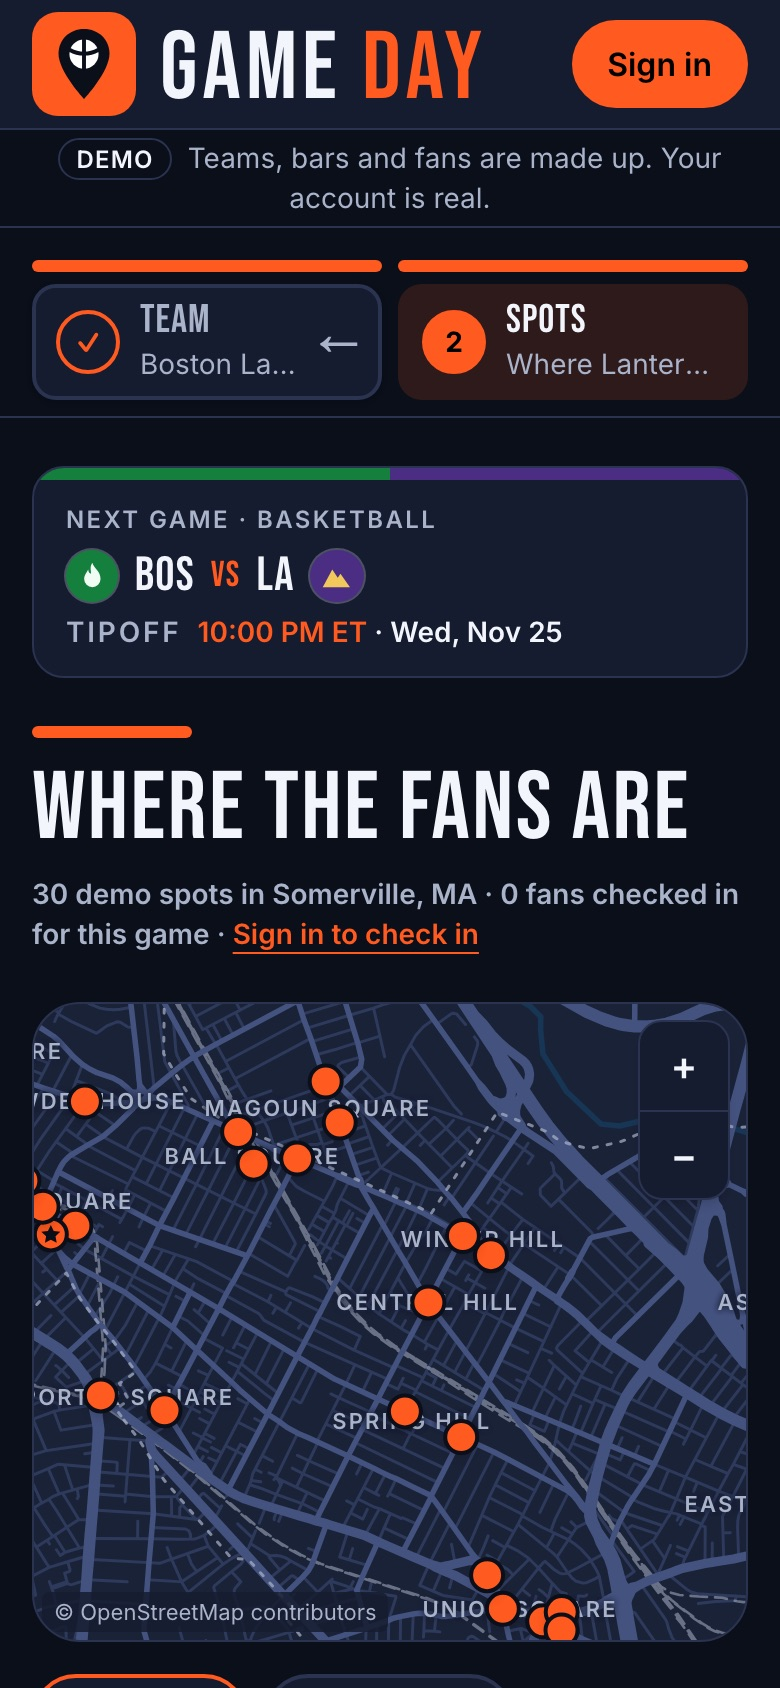
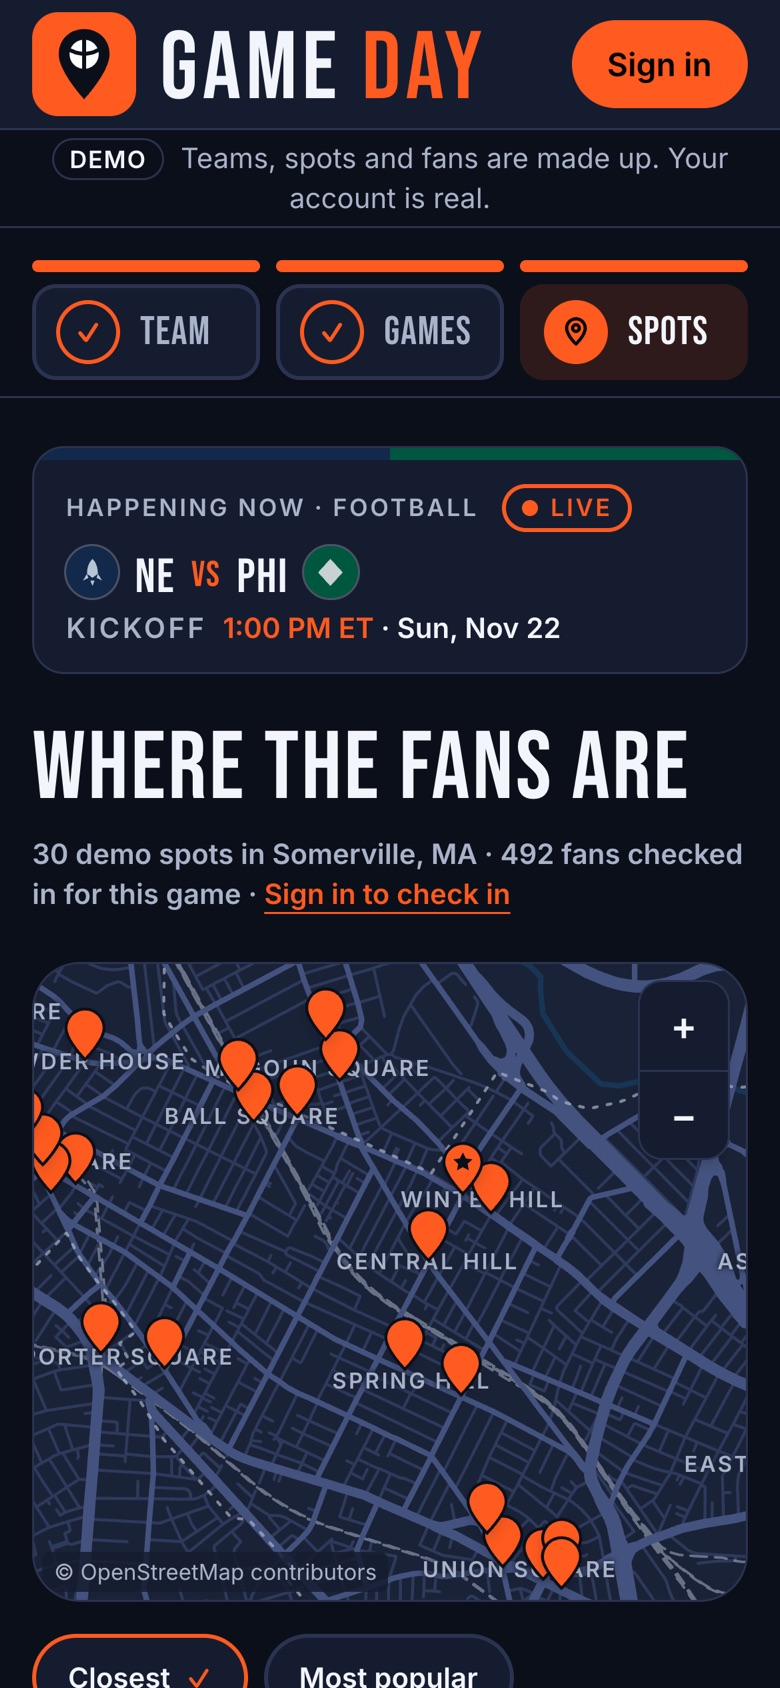
Case study follows the portfolio template
Seven chapters in template order: Problem & context (with a labeled
proto-persona and why it matters), Research & synthesis (why no formal
research, the insight that shaped the design, assumptions log),
Principles, Ideation & decisions, a new Final design chapter (flow in
order on desktop and phone, three edge and error states from the live
site, design system notes linking Playbook, accessibility), Evaluation,
and Outcome & reflection. TL;DR lede states problem and outcome; the
outcome card is honest that fan testing is next. Fresh screenshots of the
live site, including the Games step. Section timeline updated.

diff --git a/public/projects/game-day.html b/public/projects/game-day.html
@@ -26,7 +26,7 @@
   <div class="cs-head">
     <a class="crumb mono" href="/projects">← ~/projects</a>
     <h1>Game Day</h1>
-    <p class="lede">Helping sports fans find where fellow fans are watching tonight's game, so they can watch together instead of alone.</p>
+    <p class="lede">Fans couldn't tell where fellow fans were watching the game. I designed and shipped Game Day, a live web app that shows how many fans of your team are at each spot nearby.</p>
     <div class="btns">
       <a class="btn" href="https://gameday.davidlevine.dev/" target="_blank" rel="noopener">Open Game Day <span class="arr" aria-hidden="true">↗</span><span class="vh"> (opens in a new tab)</span></a>
     </div>
@@ -34,47 +34,50 @@
       <div><dt>// role</dt><dd>UX designer; I directed Claude Code, which wrote the code</dd></div>
       <div><dt>// timeline</dt><dd>November 2026; first working version in about two days</dd></div>
       <div><dt>// platform</dt><dd>Web app for desktop and phone</dd></div>
-      <div><dt>// built with</dt><dd>Claude Code, Next.js, Firestore, Google Cloud Run</dd></div>
+      <div><dt>// tools</dt><dd>Claude Code, Next.js, Firestore, Google Cloud Run</dd></div>
     </dl>
     <div class="cards glance">
       <div class="card"><span class="mono">// the problem</span><p>Fans can't easily tell where fellow fans are watching the game.</p></div>
-      <div class="card"><span class="mono">// my approach</span><p>No formal research: I built first, logged my assumptions, and evaluated with UX methods.</p></div>
-      <div class="card"><span class="mono">// the result</span><p>A live web app, 11 usability fixes, and 4 navigation concepts compared side by side.</p></div>
+      <div class="card"><span class="mono">// what I did</span><p>Built first, logged every assumption, compared 4 navigation concepts, and ran a heuristic review.</p></div>
+      <div class="card"><span class="mono">// outcome so far</span><p>A live app anyone can use, with 11 usability problems fixed. Testing with fans is next.</p></div>
     </div>
   </div>
 
   <figure class="cs-hero">
-    <img src="/images/game-day/spots.jpg" width="1280" height="800" alt="Game Day's Spots step: a step bar showing Team done and Spots current, the next game Boston vs LA with its tipoff time, and Where the fans are with a list of bars beside a map of Somerville">
+    <img src="/images/game-day/spots.jpg" width="1280" height="800" alt="Game Day's Spots step: a Team, Games, Spots step bar, the live New England vs Philadelphia game, and Where the fans are with a list of spots and their fan counts beside a map of Somerville">
   </figure>
 
   <div class="cs-body">
   <nav class="cs-nav" aria-label="Case study sections">
     <ol>
       <li><a href="#problem"><span class="n">01</span><span class="t">Problem</span></a></li>
-      <li><a href="#approach"><span class="n">02</span><span class="t">Approach</span></a></li>
-      <li><a href="#assumptions"><span class="n">03</span><span class="t">Assumptions</span></a></li>
-      <li><a href="#principles"><span class="n">04</span><span class="t">Principles</span></a></li>
-      <li><a href="#evaluation"><span class="n">05</span><span class="t">Evaluation</span></a></li>
-      <li><a href="#iteration"><span class="n">06</span><span class="t">Iteration</span></a></li>
-      <li><a href="#accessibility"><span class="n">07</span><span class="t">Accessibility</span></a></li>
-      <li><a href="#outcome"><span class="n">08</span><span class="t">Outcome</span></a></li>
-      <li><a href="#next"><span class="n">09</span><span class="t">What's next</span></a></li>
+      <li><a href="#research"><span class="n">02</span><span class="t">Research</span></a></li>
+      <li><a href="#principles"><span class="n">03</span><span class="t">Principles</span></a></li>
+      <li><a href="#iteration"><span class="n">04</span><span class="t">Ideation</span></a></li>
+      <li><a href="#design"><span class="n">05</span><span class="t">Final design</span></a></li>
+      <li><a href="#evaluation"><span class="n">06</span><span class="t">Evaluation</span></a></li>
+      <li><a href="#outcome"><span class="n">07</span><span class="t">Outcome</span></a></li>
     </ol>
   </nav>
   <div class="cs-content">
 
   <section class="chapter" id="problem" aria-labelledby="problem-h">
-    <span class="mono">01 · the problem</span>
+    <span class="mono">01 · problem &amp; context</span>
     <h2 id="problem-h">Finding a crowd to watch the game with is guesswork.</h2>
     <p>Transplants, fans of out-of-town teams, and anyone whose friends don't follow their sport have no easy way to know where fellow fans gather. Bars advertise TVs, not who'll be there.</p>
-    <p><strong>The solution:</strong> pick your team, then see how many fans are checked in at each spot nearby, on a list and a map.</p>
+    <div class="cards glance">
+      <div class="card"><span class="mono">// who it's for</span><p>A fan who moved to Somerville and still follows the team from back home. They know which bars have TVs, not which one their team's fans fill on game day.</p></div>
+      <div class="card"><span class="mono">// why it matters to fans</span><p>Watching with people who cheer for the same team is the point of going out for the game.</p></div>
+      <div class="card"><span class="mono">// why it matters to spots</span><p>A spot that becomes a team's home base can count on a crowd every game night.</p></div>
+    </div>
+    <p class="note mono">A proto-persona: assumed, not yet checked with real fans.</p>
+    <p><strong>The solution:</strong> pick your team and game, then see how many fans are checked in at each spot nearby, on a list and a map.</p>
   </section>
 
-  <section class="chapter" id="approach" aria-labelledby="approach-h">
-    <span class="mono">02 · my approach</span>
-    <h2 id="approach-h">Build first, then test like a designer.</h2>
-    <p class="big-quote">I skipped formal research and went straight into building with Claude Code.</p>
-    <p>To keep that honest, I logged every assumption as a question to test, and reviewed the working prototype with standard UX methods.</p>
+  <section class="chapter" id="research" aria-labelledby="research-h">
+    <span class="mono">02 · research &amp; synthesis</span>
+    <h2 id="research-h">No interviews yet. Here's what I used instead.</h2>
+    <p><strong>Why no formal research:</strong> Game Day started as a prototype I wanted working in about two days, with no time to recruit and interview fans. So I went straight into building with Claude Code and kept it honest in other ways.</p>
     <ol class="steps" aria-label="Process">
       <li><b>Assume</b><span>Log each assumption and the decision it drives.</span></li>
       <li><b>Build</b><span>A working prototype, one feature at a time.</span></li>
@@ -83,11 +86,10 @@
       <li><b>Compare</b><span>Competing concepts, built for real.</span></li>
       <li><b>Refine</b><span>Small changes, each with a reason.</span></li>
     </ol>
-  </section>
-
-  <section class="chapter" id="assumptions" aria-labelledby="assumptions-h">
-    <span class="mono">03 · assumptions log</span>
-    <h2 id="assumptions-h">Research I owe, written down as I went.</h2>
+    <h3>The insight that shaped the design</h3>
+    <p class="big-quote">A tester found the single long page tiring: teams at the top, spots far below.</p>
+    <p>Changing your mind meant scrolling up and down. That one comment led to the step-by-step navigation in <a href="#iteration">Ideation</a>.</p>
+    <h3>Assumptions log: research I owe</h3>
     <p>Every decision rests on an assumption, each ready to check in the first usability test.</p>
     <div class="table-wrap">
       <table>
@@ -103,7 +105,7 @@
   </section>
 
   <section class="chapter" id="principles" aria-labelledby="principles-h">
-    <span class="mono">04 · design principles</span>
+    <span class="mono">03 · design principles</span>
     <h2 id="principles-h">Five principles settled most arguments.</h2>
     <div class="cards">
       <div class="card"><b>Value before sign-up</b><p>Browse freely. Sign up only to check in or review.</p></div>
@@ -114,33 +116,10 @@
     </div>
   </section>
 
-  <section class="chapter" id="evaluation" aria-labelledby="evaluation-h">
-    <span class="mono">05 · evaluation</span>
-    <h2 id="evaluation-h">No users yet, so I ran a heuristic review.</h2>
-    <p>I walked every flow as a new visitor, a returning fan and a keyboard-only user, against Nielsen's 10 usability heuristics.</p>
-    <div class="stats">
-      <div class="stat"><b>11</b><span>usability problems found and fixed</span></div>
-      <div class="stat"><b>3</b><span>user roles walked through every flow</span></div>
-      <div class="stat"><b>320px</b><span>narrowest screen every layout holds at</span></div>
-    </div>
-    <div class="table-wrap">
-      <table>
-        <thead><tr><th scope="col">heuristic</th><th scope="col">problem</th><th scope="col">fix</th></tr></thead>
-        <tbody>
-          <tr><td>Visibility of system status</td><td>A failed check-in was silent for sighted users</td><td>A visible message with Sign in or Dismiss</td></tr>
-          <tr><td>Help users recover from errors</td><td>A failed load said "Loading…" forever</td><td>"Couldn't load" with a Try again button</td></tr>
-          <tr><td>Recognition rather than recall</td><td>Checking in meant going back to find the spot in the list</td><td>A check-in button on every spot's page</td></tr>
-          <tr><td>Error prevention</td><td>Leaving the page lost a half-written review</td><td>Drafts are kept until posted</td></tr>
-          <tr><td>User control and freedom</td><td>No way to delete an account</td><td>"Delete your account", listing exactly what goes</td></tr>
-        </tbody>
-      </table>
-    </div>
-  </section>
-
   <section class="chapter" id="iteration" aria-labelledby="iteration-h">
-    <span class="mono">06 · iteration</span>
+    <span class="mono">04 · ideation &amp; decisions</span>
     <h2 id="iteration-h">Four navigation concepts, built for real.</h2>
-    <p><strong>Why:</strong> a tester found the single long page tiring. Teams were at the top and spots far below, so changing your mind meant scrolling up and down.</p>
+    <p><strong>Why:</strong> the tester who found the long page tiring (see <a href="#research">Research</a>).</p>
     <p><strong>Every concept had to:</strong> show which step you're on, make going back easy, and require a team before showing spots.</p>
     <figure>
       <img src="/images/game-day/concepts.jpg" width="1280" height="900" loading="lazy" alt="Game Day's design concepts page: a card for each concept with a sketch of its layout, its strengths and what to watch out for">
@@ -181,7 +160,7 @@
         <p>A's progress line inside B's sticky bar, plus a button that fades in at the bottom once a team is picked.</p>
         <p class="verdict">became the live site after four rounds of refinement</p>
       </div>
-      <figure><img src="/images/game-day/team.jpg" width="1280" height="800" loading="lazy" alt="The live Team step: the step bar with Team done, and team search with My teams and sport filters"></figure>
+      <figure><img src="/images/game-day/team.jpg" width="1280" height="800" loading="lazy" alt="The live Team step: a Team, Games, Spots step bar, team search with My teams and sport filters, and a See Foghorns games button"></figure>
     </article>
 
     <h3>Small changes, each with a reason</h3>
@@ -256,9 +235,41 @@
     </article>
   </section>
 
-  <section class="chapter" id="accessibility" aria-labelledby="accessibility-h">
-    <span class="mono">07 · accessibility</span>
-    <h2 id="accessibility-h">WCAG 2.1 AA from the first draft.</h2>
+  <section class="chapter" id="design" aria-labelledby="design-h">
+    <span class="mono">05 · final design</span>
+    <h2 id="design-h">From picking a team to checking in.</h2>
+    <p>Three steps, then a spot's page. The step bar stays on top, so going back is always one tap.</p>
+    <div class="shots two">
+      <figure><img src="/images/game-day/team.jpg" width="1280" height="800" loading="lazy" alt="Team step: search by team or city, My teams and sport filters, team cards with stars, and a See Foghorns games button"><figcaption>1 · Team: search, filter, or pick a saved team.</figcaption></figure>
+      <figure><img src="/images/game-day/games.jpg" width="1280" height="800" loading="lazy" alt="Games step: Pick a game, with the Foghorns' live game and next three games as cards showing kickoff times"><figcaption>2 · Games: the live game and what's coming up.</figcaption></figure>
+      <figure><img src="/images/game-day/spots.jpg" width="1280" height="800" loading="lazy" alt="Spots step: a one-line game card, then spots with their fan counts beside a map of pins"><figcaption>3 · Spots: where the fans are, on a list and a map.</figcaption></figure>
+      <figure><img src="/images/game-day/spot-page.jpg" width="1280" height="800" loading="lazy" alt="The Tap Room's page: rating, hours, Popular with, and a game box with 22 Foghorns fans here, Sign in to check in and Switch team"><figcaption>A spot's page: check in, or switch team.</figcaption></figure>
+    </div>
+    <div class="phones four">
+      <img src="/images/game-day/m-team.jpg" width="780" height="1688" loading="lazy" alt="The Team step on a phone">
+      <img src="/images/game-day/m-games.jpg" width="780" height="1688" loading="lazy" alt="The Games step on a phone, with the live game picked and a See where Foghorns fans are button">
+      <img src="/images/game-day/m-spots.jpg" width="780" height="1688" loading="lazy" alt="The Spots step on a phone, with the game card and map">
+      <img src="/images/game-day/m-spot-page.jpg" width="780" height="1688" loading="lazy" alt="A spot's page on a phone, with Sign in to check in and Switch team side by side">
+    </div>
+
+    <h3>Edge and error states</h3>
+    <p>Each one says what happened and what to do next.</p>
+    <div class="shots">
+      <figure><img src="/images/game-day/state-load-error.jpg" width="1800" height="700" loading="lazy" alt="Spots step with a warning: We couldn't load the fan counts. The numbers below may be out of date, with a Try again button"><figcaption>Counts fail to load: the page still works, with a warning and Try again.</figcaption></figure>
+      <figure><img src="/images/game-day/state-no-teams.jpg" width="1800" height="700" loading="lazy" alt="Team search for Honolulu showing: No teams match Honolulu"><figcaption>No search results: it repeats what you typed.</figcaption></figure>
+      <figure><img src="/images/game-day/state-pick-game.jpg" width="1800" height="700" loading="lazy" alt="Going to Spots without a game: a notice, Pick a game first. Then you can see where fans are watching it, above the Games step"><figcaption>Skipping a step: Spots sends you back to pick a game first.</figcaption></figure>
+    </div>
+
+    <h3>Design system</h3>
+    <p>One orange brand color runs through a contrast engine that works out a version for text, edges and fills that passes WCAG, in dark and light mode. Two shared button styles are used 58 times across the app.</p>
+    <p>Afterward, Claude audited every screen and pulled the styles into <a href="/projects/playbook">Playbook</a>, the design system the next project starts from:</p>
+    <div class="stats">
+      <div class="stat"><b>12 → 7</b><span>text sizes became 7 named styles</span></div>
+      <div class="stat"><b>42 → 8</b><span>padding values became an 8-step spacing scale</span></div>
+      <div class="stat"><b>7 → 5</b><span>corner radii became 5 named ones</span></div>
+    </div>
+
+    <h3 id="accessibility">Accessibility: WCAG 2.1 AA from the first draft</h3>
     <div class="cards">
       <div class="card"><b>Contrast tested in code</b><p>4.5:1 for text and 3:1 for icons, in dark and light mode.</p></div>
       <div class="card"><b>Never color alone</b><p>Status and errors always have an icon and words.</p></div>
@@ -269,30 +280,40 @@
     </div>
   </section>
 
-  <section class="chapter" id="outcome" aria-labelledby="outcome-h">
-    <span class="mono">08 · outcome</span>
-    <h2 id="outcome-h">A working app, live on Google Cloud.</h2>
-    <p>Real accounts, check-ins and reviews in a real neighborhood (Somerville, MA), with 600 simulated fans so it never feels empty.</p>
+  <section class="chapter" id="evaluation" aria-labelledby="evaluation-h">
+    <span class="mono">06 · evaluation</span>
+    <h2 id="evaluation-h">No users yet, so I ran a heuristic review.</h2>
+    <p>I walked every flow as a new visitor, a returning fan and a keyboard-only user, against Nielsen's 10 usability heuristics.</p>
     <div class="stats">
-      <div class="stat"><b>4</b><span>navigation concepts built and compared</span></div>
-      <div class="stat"><b>11</b><span>usability fixes</span></div>
+      <div class="stat"><b>11</b><span>usability problems found and fixed</span></div>
+      <div class="stat"><b>3</b><span>user roles walked through every flow</span></div>
+      <div class="stat"><b>320px</b><span>narrowest screen every layout holds at</span></div>
     </div>
-    <div class="shots two">
-      <figure><img src="/images/game-day/home.jpg" width="1280" height="800" loading="lazy" alt="Game Day's Home: Welcome to Game Day, one sentence on what you can do, and a large Find your crew button"><figcaption>Home: one sentence, one action.</figcaption></figure>
-      <figure><img src="/images/game-day/spots.jpg" width="1280" height="800" loading="lazy" alt="The Spots step with the game card, list of spots and map"><figcaption>Spots: where the fans are, on a list and a map.</figcaption></figure>
-    </div>
-    <div class="phones">
-      <img src="/images/game-day/m-home.jpg" width="780" height="1688" loading="lazy" alt="Home on a phone">
-      <img src="/images/game-day/m-team.jpg" width="780" height="1688" loading="lazy" alt="The Team step on a phone">
-      <img src="/images/game-day/m-spots.jpg" width="780" height="1688" loading="lazy" alt="The Spots step on a phone, with the game card and map">
+    <div class="table-wrap">
+      <table>
+        <thead><tr><th scope="col">heuristic</th><th scope="col">problem</th><th scope="col">fix</th></tr></thead>
+        <tbody>
+          <tr><td>Visibility of system status</td><td>A failed check-in was silent for sighted users</td><td>A visible message with Sign in or Dismiss</td></tr>
+          <tr><td>Help users recover from errors</td><td>A failed load said "Loading…" forever</td><td>"Couldn't load" with a Try again button</td></tr>
+          <tr><td>Recognition rather than recall</td><td>Checking in meant going back to find the spot in the list</td><td>A check-in button on every spot's page</td></tr>
+          <tr><td>Error prevention</td><td>Leaving the page lost a half-written review</td><td>Drafts are kept until posted</td></tr>
+          <tr><td>User control and freedom</td><td>No way to delete an account</td><td>"Delete your account", listing exactly what goes</td></tr>
+        </tbody>
+      </table>
     </div>
   </section>
 
-  <section class="chapter" id="next" aria-labelledby="next-h">
-    <span class="mono">09 · what's next</span>
-    <h2 id="next-h">Next: test the assumptions with real fans.</h2>
+  <section class="chapter" id="outcome" aria-labelledby="outcome-h">
+    <span class="mono">07 · outcome &amp; reflection</span>
+    <h2 id="outcome-h">Live and reviewed. Not yet tested with fans.</h2>
+    <p>Game Day runs on Google Cloud with real accounts, check-ins and reviews in a real neighborhood (Somerville, MA), and 600 simulated fans so it never feels empty. What it doesn't have yet is evidence from real fans.</p>
+    <div class="stats">
+      <div class="stat"><b>4</b><span>navigation concepts built and compared</span></div>
+      <div class="stat"><b>11</b><span>usability problems fixed</span></div>
+    </div>
+    <h3>What's next</h3>
     <ul>
-      <li><strong>Usability test</strong> with 3 to 5 fans, including a screen reader user.</li>
+      <li><strong>Usability test</strong> with 3 to 5 fans, including a screen reader user, checking the assumptions log.</li>
       <li><strong>Passkeys</strong> on Windows and Android, and with VoiceOver.</li>
       <li><strong>New features:</strong> game-night notifications, and crowd forecasts for bar owners.</li>
     </ul>

diff --git a/public/styles.css b/public/styles.css
@@ -152,6 +152,9 @@ figcaption { font: 400 .8rem/1.5 var(--mono); color: var(--soft); margin-top: 10
 .shots figure { margin: 0; }
 .phones { display: grid; gap: 14px; grid-template-columns: repeat(3, 1fr); max-width: 760px; margin-top: 28px; }
 .phones img { border-radius: 18px; }
+.phones.four { grid-template-columns: repeat(2, 1fr); max-width: 520px; }
+@media (min-width: 720px) { .phones.four { grid-template-columns: repeat(4, 1fr); max-width: 980px; } }
+.chapter .note { font-size: .78rem; margin-top: 10px; }
 .concept { display: grid; gap: 20px; padding: 22px; margin-top: 18px; background: var(--panel); border: 1px solid var(--line); border-radius: 20px; }
 @media (min-width: 840px) { .concept { grid-template-columns: 1fr 1.2fr; align-items: start; } }
 .concept h3 { margin-top: 0; }
@@ -307,34 +310,28 @@ footer a:hover::after, .crumb:hover::after, footer a:focus-visible::after { tran
 @media (min-width: 720px) and (max-width: 1099px) { .cs-nav { margin-inline: -36px; padding-inline: 36px; } }
 
 @supports (animation-timeline: view()) {
-  .cs-body { timeline-scope: --s-problem, --s-approach, --s-assumptions, --s-principles, --s-evaluation, --s-iteration, --s-accessibility, --s-outcome, --s-next; }
+  .cs-body { timeline-scope: --s-problem, --s-research, --s-principles, --s-iteration, --s-design, --s-evaluation, --s-outcome; }
   #problem { view-timeline-name: --s-problem; }
   .cs-nav li:nth-child(1) a { animation-timeline: --s-problem; }
   .cs-nav li:nth-child(1) a::before { animation-timeline: --s-problem, --s-problem; }
-  #approach { view-timeline-name: --s-approach; }
-  .cs-nav li:nth-child(2) a { animation-timeline: --s-approach; }
-  .cs-nav li:nth-child(2) a::before { animation-timeline: --s-approach, --s-approach; }
-  #assumptions { view-timeline-name: --s-assumptions; }
-  .cs-nav li:nth-child(3) a { animation-timeline: --s-assumptions; }
-  .cs-nav li:nth-child(3) a::before { animation-timeline: --s-assumptions, --s-assumptions; }
+  #research { view-timeline-name: --s-research; }
+  .cs-nav li:nth-child(2) a { animation-timeline: --s-research; }
+  .cs-nav li:nth-child(2) a::before { animation-timeline: --s-research, --s-research; }
   #principles { view-timeline-name: --s-principles; }
-  .cs-nav li:nth-child(4) a { animation-timeline: --s-principles; }
-  .cs-nav li:nth-child(4) a::before { animation-timeline: --s-principles, --s-principles; }
-  #evaluation { view-timeline-name: --s-evaluation; }
-  .cs-nav li:nth-child(5) a { animation-timeline: --s-evaluation; }
-  .cs-nav li:nth-child(5) a::before { animation-timeline: --s-evaluation, --s-evaluation; }
+  .cs-nav li:nth-child(3) a { animation-timeline: --s-principles; }
+  .cs-nav li:nth-child(3) a::before { animation-timeline: --s-principles, --s-principles; }
   #iteration { view-timeline-name: --s-iteration; }
-  .cs-nav li:nth-child(6) a { animation-timeline: --s-iteration; }
-  .cs-nav li:nth-child(6) a::before { animation-timeline: --s-iteration, --s-iteration; }
-  #accessibility { view-timeline-name: --s-accessibility; }
-  .cs-nav li:nth-child(7) a { animation-timeline: --s-accessibility; }
-  .cs-nav li:nth-child(7) a::before { animation-timeline: --s-accessibility, --s-accessibility; }
+  .cs-nav li:nth-child(4) a { animation-timeline: --s-iteration; }
+  .cs-nav li:nth-child(4) a::before { animation-timeline: --s-iteration, --s-iteration; }
+  #design { view-timeline-name: --s-design; }
+  .cs-nav li:nth-child(5) a { animation-timeline: --s-design; }
+  .cs-nav li:nth-child(5) a::before { animation-timeline: --s-design, --s-design; }
+  #evaluation { view-timeline-name: --s-evaluation; }
+  .cs-nav li:nth-child(6) a { animation-timeline: --s-evaluation; }
+  .cs-nav li:nth-child(6) a::before { animation-timeline: --s-evaluation, --s-evaluation; }
   #outcome { view-timeline-name: --s-outcome; }
-  .cs-nav li:nth-child(8) a { animation-timeline: --s-outcome; }
-  .cs-nav li:nth-child(8) a::before { animation-timeline: --s-outcome, --s-outcome; }
-  #next { view-timeline-name: --s-next; }
-  .cs-nav li:nth-child(9) a { animation-timeline: --s-next; }
-  .cs-nav li:nth-child(9) a::before { animation-timeline: --s-next, --s-next; }
+  .cs-nav li:nth-child(7) a { animation-timeline: --s-outcome; }
+  .cs-nav li:nth-child(7) a::before { animation-timeline: --s-outcome, --s-outcome; }
   /* Highlight while the section crosses the middle of the screen. */
   .cs-nav a { animation: nav-on linear none; animation-range: cover 50vh cover calc(100% - 50vh); }
   /* Dot: fills mint once you reach the section (and stays filled), and grows while you're in it. */
